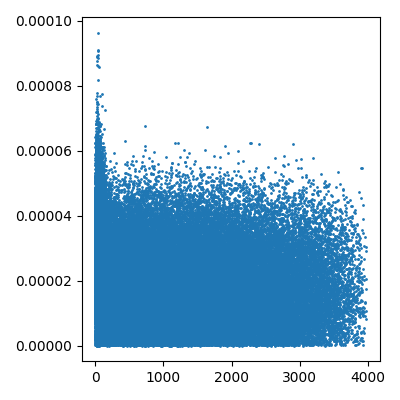
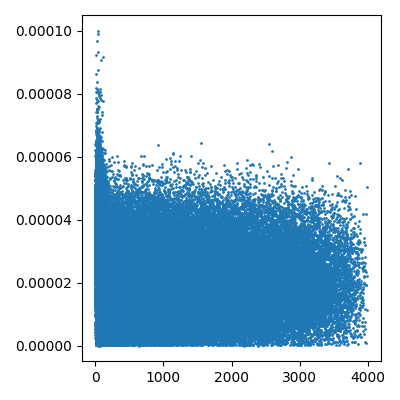
make sure recoveries work

diff --git a/paper_figures_21_05_05/paper_figs_circa_21_10/multiple_parametric_21_09_28/single_cell_silent_dist_ordered_21_11_09/run.py b/paper_figures_21_05_05/paper_figs_circa_21_10/multiple_parametric_21_09_28/single_cell_silent_dist_ordered_21_11_09/run.py
@@ -170,7 +170,7 @@ def generate_exc_ff_chain(m):
         gamma = m.MEAN_N_CONS_PER_CELL * synfire_proportion / (m.PROJECTION_NUM * (1 - np.exp(-10/m.CON_PROB_FF_CONST))/(1 - np.exp(-1/m.CON_PROB_FF_CONST)))
 
         ### Calculate scaling coef for synapses based on 'synfire_proportion'
-        min_weight_scaling_coef = 0.05
+        min_weight_scaling_coef = 0.2
         weight_scaling_coef = (1 - min_weight_scaling_coef) * synfire_proportion + min_weight_scaling_coef
 
         # if synfire_proportion > 0.98:
@@ -260,7 +260,7 @@ def run_test(m, output_dir_name, show_connectivity=True, repeats=1, n_show_only=
 
         np.fill_diagonal(w_e_e_r, 0.)
 
-        min_weight_scaling_coef = 0.05
+        min_weight_scaling_coef = 0.2
         weight_scaling_coefs = (1 - min_weight_scaling_coef) * syn_props + min_weight_scaling_coef
 
         e_i_r = np.stack([gaussian_if_under_val(m.E_I_CON_PROB, (m.N_INH,), w_scale * m.W_E_I_R, 0.2 * m.W_E_I_R) for w_scale in weight_scaling_coefs]).T

diff --git a/paper_figures_21_05_05/paper_figs_circa_21_10/multiple_parametric_21_09_28/single_cell_silent_dist_ordered_21_11_09/submit_pop_single_silent_one_sided.py b/paper_figures_21_05_05/paper_figs_circa_21_10/multiple_parametric_21_09_28/single_cell_silent_dist_ordered_21_11_09/submit_pop_single_silent_one_sided.py
@@ -75,7 +75,7 @@ def pad_zeros(to_pad, length):
 batch_size = 10
 
 params = OrderedDict()
-params['SEED'] = [str(i) for i in range(2061, 2091)]
+params['SEED'] = [str(i) for i in range(2060, 2075)]
 params['ALPHA_1'] = [ str(3e-2) ]
 params['ALPHA_2'] = [ str(0.5e-2), str(2e-2)  ]
 params['GAMMA'] = [ str(0.1e-4), str(0.3e-4) ]

diff --git a/paper_figures_21_05_05/paper_figs_circa_21_10/multiple_parametric_21_09_28/single_cell_silent_dist_ordered_21_11_09/submit_pop_single_silent.py b/paper_figures_21_05_05/paper_figs_circa_21_10/multiple_parametric_21_09_28/single_cell_silent_dist_ordered_21_11_09/submit_pop_single_silent.py
@@ -75,7 +75,7 @@ def pad_zeros(to_pad, length):
 batch_size = 10
 
 params = OrderedDict()
-params['SEED'] = [str(i) for i in range(2061, 2091)]
+params['SEED'] = [str(i) for i in range(2060, 2075)]
 params['ALPHA_1'] = [ str(3e-2) ]
 params['ALPHA_2'] = [ str(0.5e-2), str(2e-2) ]
 params['GAMMA'] = [ str(0.1e-4), str(0.3e-4) ]

diff --git a/paper_figures_21_05_05/paper_figs_circa_21_10/multiple_parametric_21_09_28/single_cell_silent_dist_ordered_21_11_09/submit_single_silent_only_wide_attr.py b/paper_figures_21_05_05/paper_figs_circa_21_10/multiple_parametric_21_09_28/single_cell_silent_dist_ordered_21_11_09/submit_single_silent_only_wide_attr.py
@@ -75,7 +75,7 @@ def pad_zeros(to_pad, length):
 batch_size = 10
 
 params = OrderedDict()
-params['SEED'] = [str(i) for i in range(2061, 2091)]
+params['SEED'] = [str(i) for i in range(2060, 2075)]
 params['ALPHA_1'] = [ str(3e-2) ]
 params['ALPHA_2'] = [ str(0.5e-2), str(2e-2)  ]
 params['SYN_PROP_DIST'] = [ str(0.9) ]

diff --git a/paper_figures_21_05_05/paper_figs_circa_21_10/multiple_parametric_21_09_28/single_cell_silent_dist_ordered_21_11_09/submit_single_silent_only.py b/paper_figures_21_05_05/paper_figs_circa_21_10/multiple_parametric_21_09_28/single_cell_silent_dist_ordered_21_11_09/submit_single_silent_only.py
@@ -75,7 +75,7 @@ def pad_zeros(to_pad, length):
 batch_size = 10
 
 params = OrderedDict()
-params['SEED'] = [str(i) for i in range(2061, 2091)]
+params['SEED'] = [str(i) for i in range(2060, 2075)]
 params['ALPHA_1'] = [ str(3e-2) ]
 params['ALPHA_2'] = [ str(0.5e-2), str(2e-2) ]
 params['SYN_PROP_DIST'] = [ str(0.9) ]
